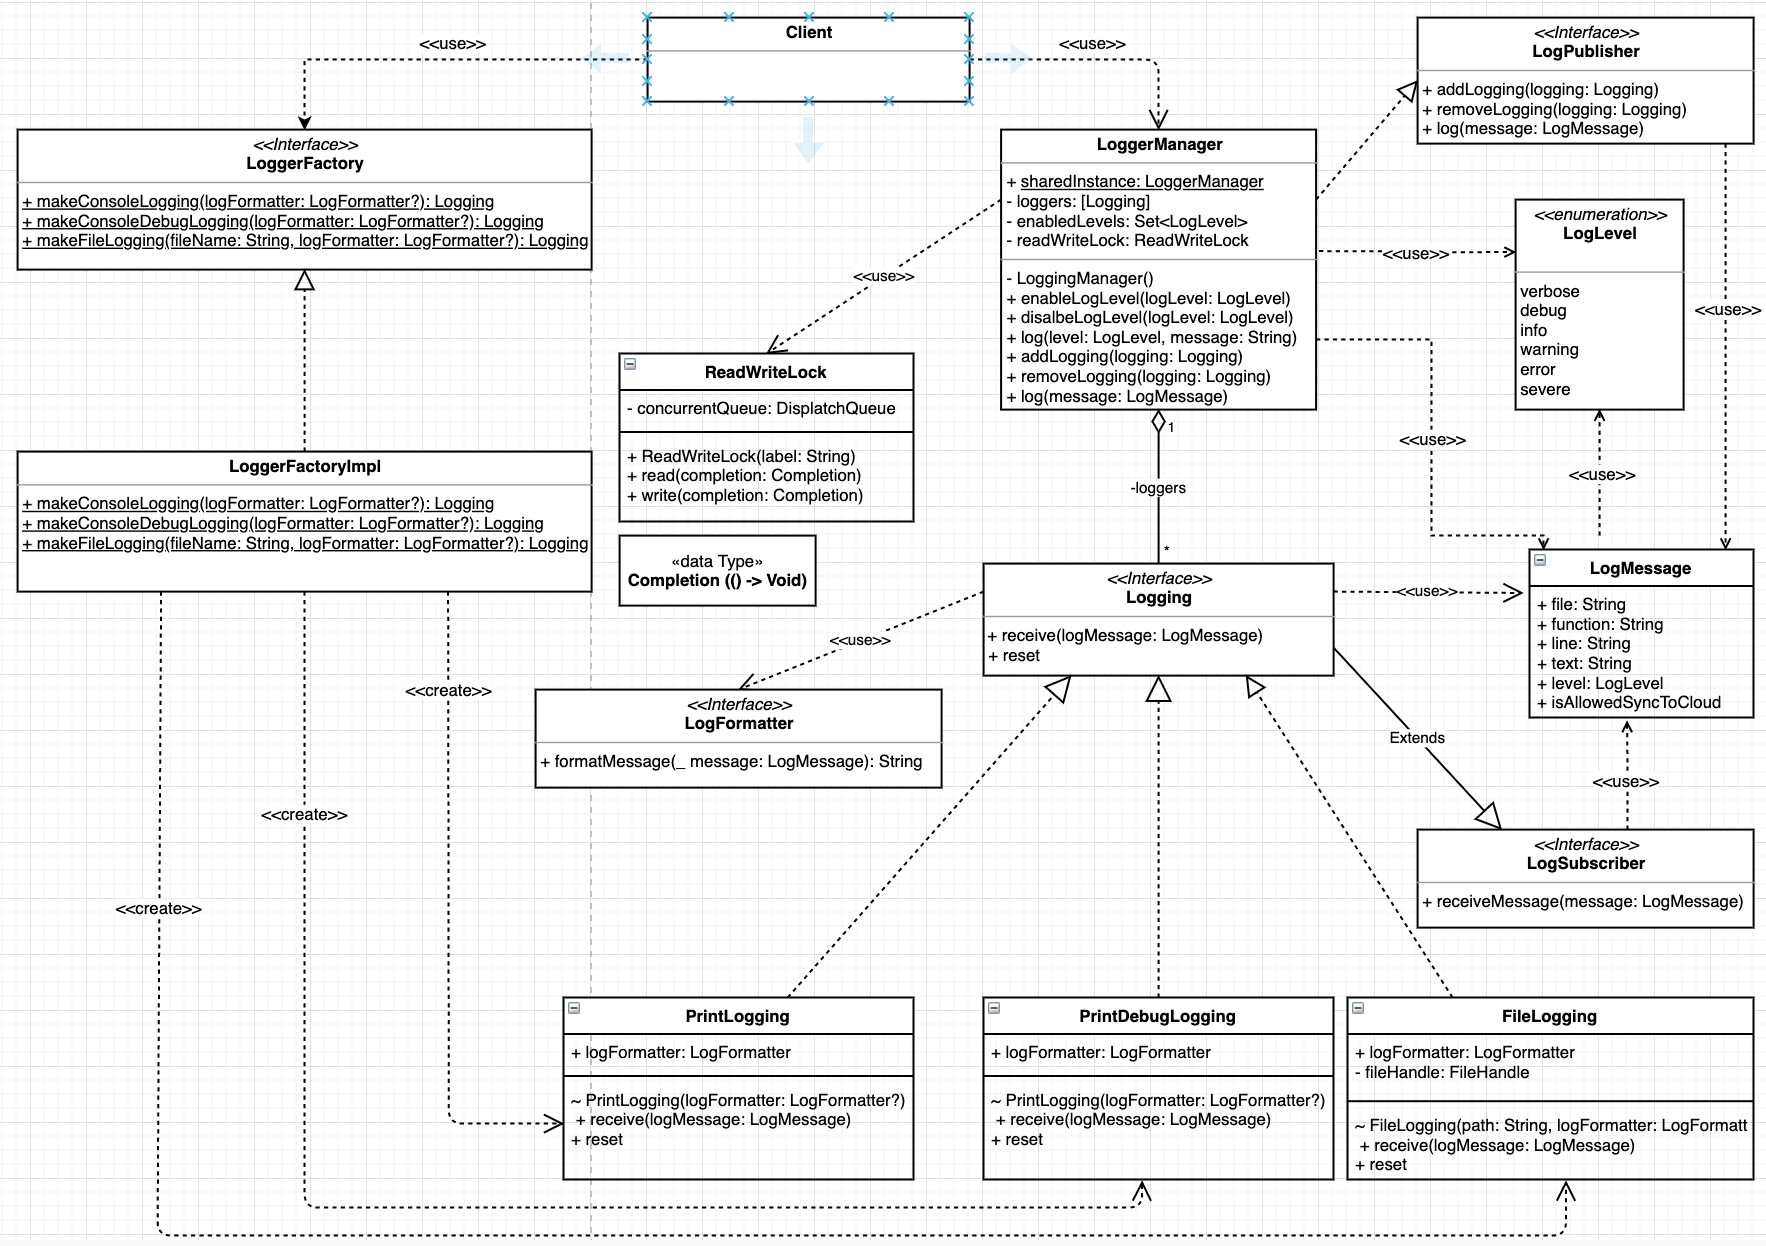
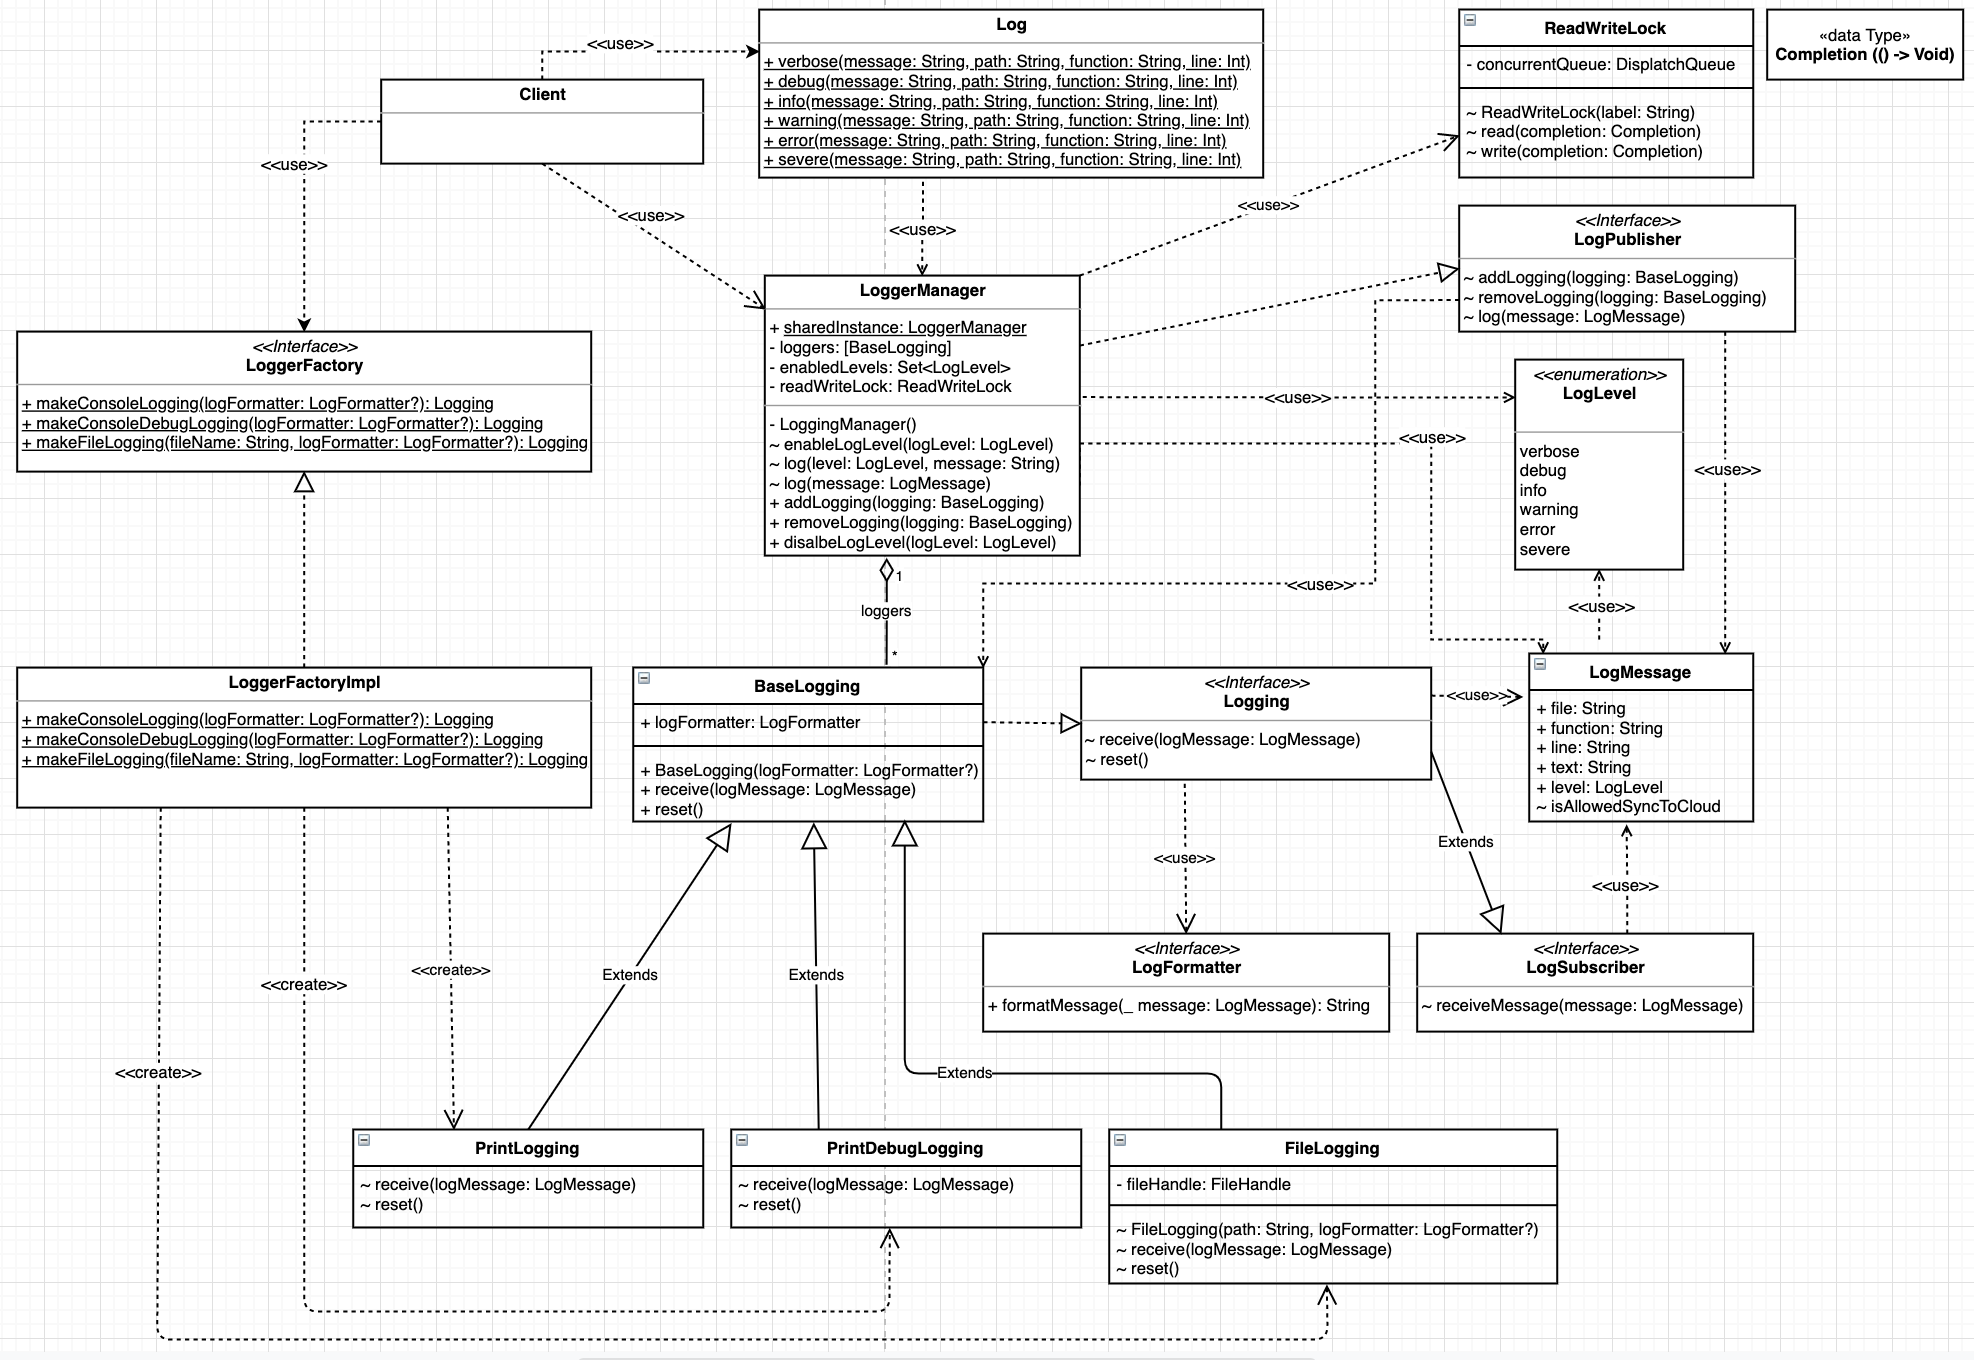
feat(removeLogging): allow client remove a specific registered logging (#6)
* refactor(baseLogging): make a BaseLogging to overcome the limitation of conformance generic protocol

* chore(README): update documentation more clearly

* fix(removeLogging): allow remove logging after register

diff --git a/Logging/LoggerManager.swift b/Logging/LoggerManager.swift
@@ -38,7 +38,7 @@ open class LoggerManager: LogPublisher {
     public static let sharedInstance = LoggerManager()
     
     public private(set) var loggerFactoryType: LoggerFactory.Type = LoggerFactoryImpl.self
-    private(set) var loggers: [Logging] = []
+    private(set) var loggers: [BaseLogging] = []
     private var enabledLevels = Set<LogLevel>(LogLevel.allCases)
     private let readWriteLock = ReadWriteLock(label: "loggerLock")
     
@@ -51,7 +51,9 @@ open class LoggerManager: LogPublisher {
     private func setUpLogger() {
         setUpLoggerFactoryType(LoggerFactoryImpl.self)
         let logFormatter = LogFormatterImpl()
-        addLogging(loggerFactoryType.makeConsoleLogging(logFormatter: logFormatter))
+        let consoleLogging = loggerFactoryType.makeConsoleLogging(logFormatter: logFormatter) as! PrintLogging
+        addLogging(consoleLogging)
+        addLogging(loggerFactoryType.makeConsoleDebugLogging(logFormatter: logFormatter))
         addLogging(loggerFactoryType.makeFileLogging(fileName: "appLogs", logFormatter: logFormatter))
     }
     
@@ -130,7 +132,7 @@ public extension LoggerManager {
     ///
     /// - parameter logging: An implementation of Logging.
     /// - returns: Void.
-    func addLogging(_ logging: Logging) {
+    func addLogging(_ logging: BaseLogging) {
         readWriteLock.write {
             loggers.append(logging)
         }
@@ -140,10 +142,19 @@ public extension LoggerManager {
     ///
     /// - parameter logging: An implementation of Logging.
     /// - returns: Void.
-    func removeLogging(_ logging: Logging) {
-//        if logging {
-//            <#code#>
-//        }
+    func removeLogging(_ logging: BaseLogging) {
+        readWriteLock.read {
+            // swiftlint:disable identifier_name
+            for i in 0...loggers.count {
+                let currentLogger = loggers[i]
+
+                if logging == currentLogger {
+                    loggers.remove(at: i)
+                    break
+                }
+            }
+            // swiftlint:enable
+        }
     }
     
     /// Clear all registered handlers (observers).

diff --git a/Logging/Impl/FileLogging.swift b/Logging/Impl/FileLogging.swift
@@ -8,9 +8,8 @@
 
 import Foundation
 
-final class FileLogging: Logging {
+final class FileLogging: BaseLogging {
     private let fileHandle: FileHandle
-    private(set )var logFormatter: LogFormatter?
     
     init(path: String, logFormatter: LogFormatter?) {
         /// create a file if it does not exist
@@ -24,8 +23,8 @@ final class FileLogging: Logging {
         /// Move to the end of the file so we can append messages
         fileHandle.seekToEndOfFile()
         
-        /// Allow client customizing message
-        self.logFormatter = logFormatter
+        /// Designated initializer must always delegate up to Designated initializer superclass
+        super.init(logFormatter: logFormatter)
     }
 
     deinit {
@@ -33,7 +32,7 @@ final class FileLogging: Logging {
         fileHandle.closeFile()
     }
 
-    func receiveMessage(_ message: LogMessage) {
+    override func receiveMessage(_ message: LogMessage) {
         guard message.isAllowedSyncToCloud else {
             return
         }
@@ -49,10 +48,7 @@ final class FileLogging: Logging {
         }
     }
     
-    func reset() {
+    override func reset() {
         fileHandle.seek(toFileOffset: 0)
     }
 }
-
-@available(iOS 13, *)
-extension FileLogging: Identifiable {}

diff --git a/Logging/Protocol/Logging.swift b/Logging/Protocol/Logging.swift
@@ -8,9 +8,19 @@
 
 import Foundation
 
+// MARK: - Identifiable
+@available(iOS, introduced: 11.12)
+protocol Identifiable {
+    /// A type representing the stable identity of the entity associated with `self`.
+    associatedtype ID: Hashable
+
+    /// The stable identity of the entity associated with `self`.
+    var id: Self.ID { get }
+}
+
 /// Any object that conforms to this protocol may log messages
 // MARK: - Logging
-public protocol Logging: LogSubscriber {
+protocol Logging: LogSubscriber {
     /// Decorate (delegate) allow client customize format message.
     var logFormatter: LogFormatter? { get }
     
@@ -19,20 +29,4 @@ public protocol Logging: LogSubscriber {
     ///
     /// - returns: Void.
     func reset()
-}
-
-// MARK: - Default Implementation
-extension Logging {
-    var logFormatter: LogFormatter? {
-        return nil
-    }
-    
-    func reset() {}
-}
-
-@available(iOS 13, *)
-extension Identifiable where Self: AnyObject {
-    var id: ObjectIdentifier {
-        return ObjectIdentifier(self)
-    }
 }

diff --git a/Logging/Impl/LoggerFactoryImpl.swift b/Logging/Impl/LoggerFactoryImpl.swift
@@ -10,15 +10,15 @@ import Foundation
 
 // MARK: - LoggerFactoryImpl
 public struct LoggerFactoryImpl: LoggerFactory {
-    public static func makeConsoleLogging(logFormatter: LogFormatter? = nil) -> Logging {
+    public static func makeConsoleLogging(logFormatter: LogFormatter? = nil) -> BaseLogging {
         return PrintLogging(logFormatter: logFormatter)
     }
     
-    public static func makeConsoleDebugLogging(logFormatter: LogFormatter? = nil) -> Logging {
+    public static func makeConsoleDebugLogging(logFormatter: LogFormatter? = nil) -> BaseLogging {
         return PrintDebugLogging(logFormatter: logFormatter)
     }
     
-    public static func makeFileLogging(fileName: String, logFormatter: LogFormatter? = nil) -> Logging {
+    public static func makeFileLogging(fileName: String, logFormatter: LogFormatter? = nil) -> BaseLogging {
         let filePath = getPathFileName(fileName)
         return FileLogging(path: filePath, logFormatter: logFormatter)
     }

diff --git a/Logging/Protocol/LogPublisher.swift b/Logging/Protocol/LogPublisher.swift
@@ -11,19 +11,19 @@ import Foundation
 // MARK: - LogPublisher Observable
 protocol LogPublisher {
     /// A list of registered handlers or observers with this Observable
-    var loggers: [Logging] { get }
+    var loggers: [BaseLogging] { get }
     
     /// Add an implementation of `Logging` to a list of registered handlers.
     ///
     /// - parameter logging: An implementation of Logging.
     /// - returns: Void.
-    func addLogging(_ logging: Logging)
+    func addLogging(_ logging: BaseLogging)
     
     /// Remove an implemation `Logging` from a list of registered handlers.
     ///
     /// - parameter logging: An implementation of Logging.
     /// - returns: Void.
-    func removeLogging(_ logging: Logging)
+    func removeLogging(_ logging: BaseLogging)
     
     /// Log a message an instance of `LogMessage`.
     /// Normally, This function was invoked by a Client.

diff --git a/Logging/Impl/BaseLogging.swift b/Logging/Impl/BaseLogging.swift
@@ -1,0 +1,40 @@
+//
+//  BaseLogging.swift
+//  Logging
+//
+//  Created by Duy Le Ngoc on 7/13/20.
+//  Copyright © 2020 Duy Le Ngoc. All rights reserved.
+//
+
+import Foundation
+
+// MARK: Logging
+open class BaseLogging: Logging {
+    public private(set) var logFormatter: LogFormatter?
+    
+    public init(logFormatter: LogFormatter?) {
+        self.logFormatter = logFormatter
+    }
+    
+    open func receiveMessage(_ message: LogMessage) {
+        fatalError("All subsclasses must implement this method")
+    }
+    
+    open func reset() {}
+}
+
+// MARK: Equatable
+extension BaseLogging: Equatable {
+    public static func == (lhs: BaseLogging, rhs: BaseLogging) -> Bool {
+        return lhs.id == rhs.id
+    }
+}
+
+// MARK: Identifiable
+extension BaseLogging: Identifiable {
+    typealias ID = String
+
+    var id: String {
+        return "\(Self.self)"
+    }
+}

diff --git a/Logging/Protocol/LoggerFactory.swift b/Logging/Protocol/LoggerFactory.swift
@@ -14,7 +14,7 @@ import Foundation
 /// A hierarchy that encapsulates: many possible "platforms", and the construction of a suite of "products".
 /// The new operator considered harmful.
 public protocol LoggerFactory {
-    static func makeConsoleLogging(logFormatter: LogFormatter?) -> Logging
-    static func makeConsoleDebugLogging(logFormatter: LogFormatter?) -> Logging
-    static func makeFileLogging(fileName: String, logFormatter: LogFormatter?) -> Logging
+    static func makeConsoleLogging(logFormatter: LogFormatter?) -> BaseLogging
+    static func makeConsoleDebugLogging(logFormatter: LogFormatter?) -> BaseLogging
+    static func makeFileLogging(fileName: String, logFormatter: LogFormatter?) -> BaseLogging
 }

diff --git a/Logging/Impl/PrintDebugLogging.swift b/Logging/Impl/PrintDebugLogging.swift
@@ -9,14 +9,8 @@
 import Foundation
 
 // MARK: - PrintDebugLogging
-final class PrintDebugLogging: Logging {
-    private(set )var logFormatter: LogFormatter?
-    
-    init(logFormatter: LogFormatter?) {
-        self.logFormatter = logFormatter
-    }
-    
-    func receiveMessage(_ message: LogMessage) {
+final class PrintDebugLogging: BaseLogging {
+    override func receiveMessage(_ message: LogMessage) {
         guard let logFormatter = logFormatter else {
             print(message.text)
             return
@@ -26,6 +20,3 @@ final class PrintDebugLogging: Logging {
         debugPrint(formattedMessage)
     }
 }
-
-@available(iOS 13, *)
-extension PrintDebugLogging: Identifiable {}

diff --git a/Logging/Model/LogMessage.swift b/Logging/Model/LogMessage.swift
@@ -13,19 +13,19 @@ import Foundation
 // MARK: - LogMessage
 public struct LogMessage {
     /// The file where this log message was created
-    let file: String
+    public let file: String
 
     /// The function where this log message was created
-    let function: String
+    public let function: String
 
     /// The text of the log message
-    let text: String
+    public let text: String
 
     /// The level of the log message
-    let level: LogLevel
+    public let level: LogLevel
     
     /// The line of the log message
-    let line: Int
+    public let line: Int
     
     /// The value to know whether need to sync with other system or not
     let isAllowedSyncToCloud: Bool

diff --git a/Logging/Impl/PrintLogging.swift b/Logging/Impl/PrintLogging.swift
@@ -8,14 +8,8 @@
 
 import Foundation
 
-final class PrintLogging: Logging {
-    private(set ) var logFormatter: LogFormatter?
-    
-    init(logFormatter: LogFormatter?) {
-        self.logFormatter = logFormatter
-    }
-    
-    func receiveMessage(_ message: LogMessage) {
+final class PrintLogging: BaseLogging {
+    override func receiveMessage(_ message: LogMessage) {
         guard let logFormatter = logFormatter else {
             print(message.text)
             return
@@ -25,6 +19,3 @@ final class PrintLogging: Logging {
         print(formattedMessage)
     }
 }
-
-@available(iOS 13, *)
-extension PrintLogging: Identifiable {}

diff --git a/Logging/Model/LogLevel.swift b/Logging/Model/LogLevel.swift
@@ -30,7 +30,7 @@ public enum LogLevel: String, CaseIterable {
     /// Severe 🛑 - A server error occurred
     case severe
     
-    var symbol: String {
+    public var symbol: String {
         switch self {
         case .verbose : return "🗣"
         case .debug : return "🔍"
@@ -41,7 +41,7 @@ public enum LogLevel: String, CaseIterable {
         }
     }
     
-    var name: String {
+    public var name: String {
         return "[\(self.rawValue.uppercased())]"
     }
 }

diff --git a/Logging/Protocol/LogSubscriber.swift b/Logging/Protocol/LogSubscriber.swift
@@ -9,7 +9,7 @@
 import Foundation
 
 // MARK: - LogSubscriber Observer
-public protocol LogSubscriber {
+protocol LogSubscriber {
     /// Receive a new message an instance of `LogMessage`.
     /// Normally, This function was invoked by an Observable (Subject).
     ///
